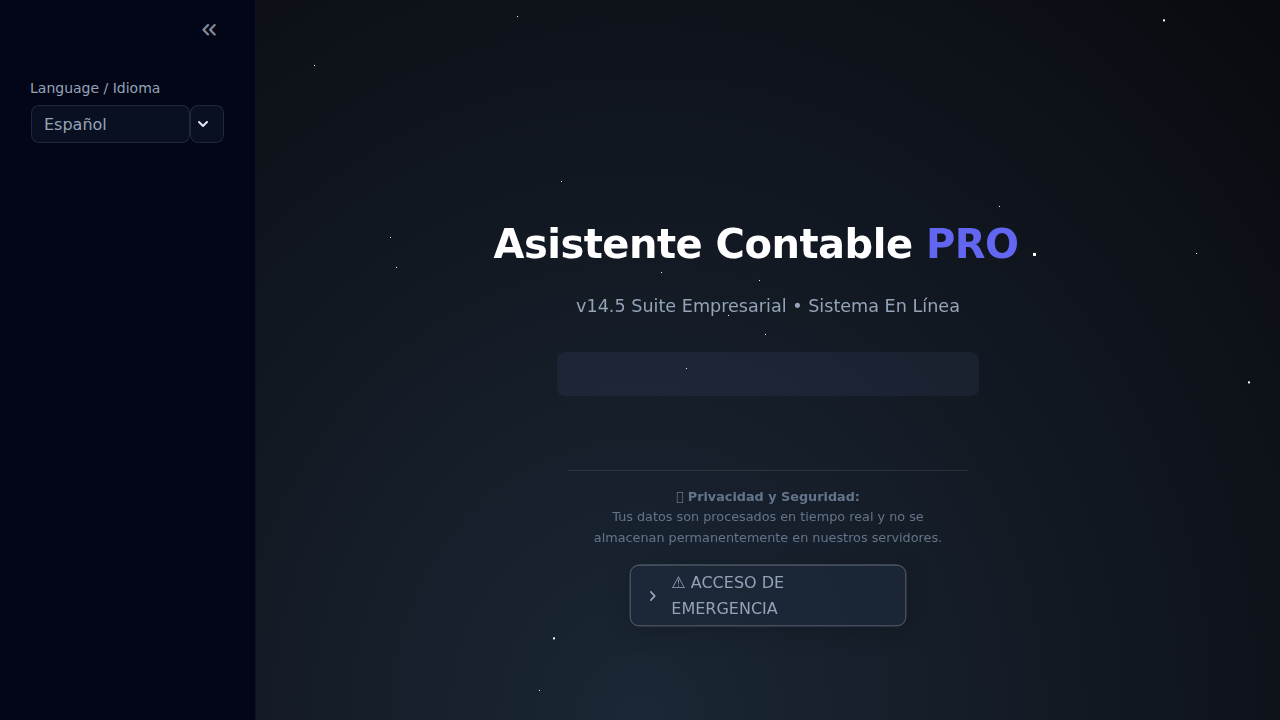
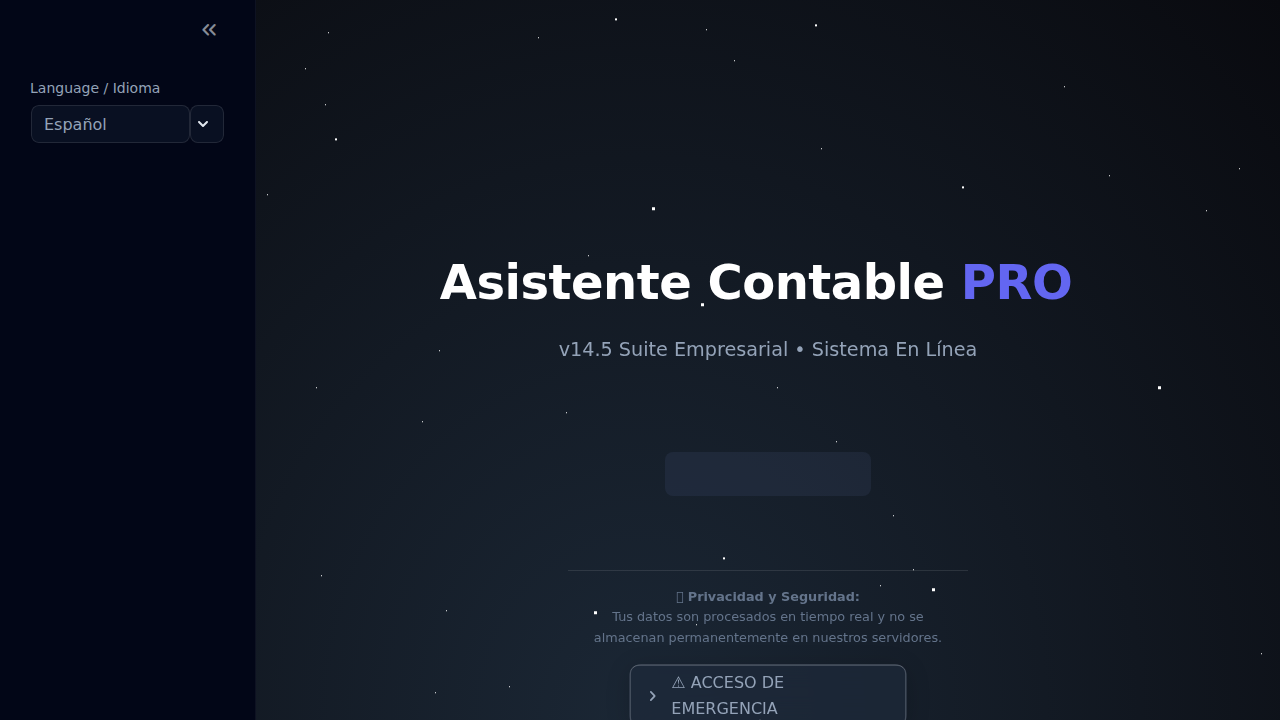
Fix login UI localization and sidebar visibility
- Localized login page title and subtitle to Spanish ("Asistente Contable PRO").
- Moved language selector to global sidebar scope to ensure visibility before login.
- Injected CSS to fix sidebar toggle button z-index and visibility over custom background.
- Centered login button using `st.columns([3, 2, 3])` and flexbox.
- Verified changes with Playwright script `verification/verify_ui_sidebar.py`.

diff --git a/app.py b/app.py
@@ -36,14 +36,22 @@ st.markdown("""
         [data-testid="stSidebarCollapsedControl"] {
             z-index: 999999 !important;
             color: #FFFFFF !important;
-            background-color: rgba(99, 102, 241, 0.4) !important;
+            background-color: rgba(99, 102, 241, 0.6) !important;
             border-radius: 50%;
-            padding: 4px;
+            padding: 6px;
             display: block !important;
+            position: fixed !important;
+            left: 20px !important;
+            top: 20px !important;
         }
 
         [data-testid="stSidebarNav"] {
             z-index: 999999 !important;
+        }
+
+        [data-testid="stSidebar"] {
+            z-index: 999998 !important;
+            background-color: #020617 !important;
         }
 
         /* --- FONTS --- */
@@ -602,10 +610,23 @@ def login_section():
     auth_url = None
 
     # --- UI RENDER (Header + Background) ---
+    # Centering container with flexbox for vertical and horizontal alignment
     st.markdown(f"""
-<div style="display: flex; flex-direction: column; align-items: center; justify-content: center; min-height: 20vh; position: relative; z-index: 10; padding-top: 10vh;">
-    <h1 style="font-family: 'Inter', sans-serif; font-size: 2.5rem; font-weight: 800; margin-bottom: 0.5rem; text-align: center; letter-spacing: -1px;">{get_text('login_title')}</h1>
-    <p style="color: var(--text-body); margin-bottom: 2rem; font-family: 'Inter', sans-serif; font-size: 1.1rem;">{get_text('login_subtitle')}</p>
+<div style="
+    display: flex;
+    flex-direction: column;
+    align-items: center;
+    justify-content: center;
+    height: 40vh;
+    width: 100%;
+    margin-top: 5vh;
+    position: relative;
+    z-index: 10;
+">
+    <div style="text-align: center;">
+        <h1 style="font-family: 'Inter', sans-serif; font-size: 3rem; font-weight: 800; margin-bottom: 0.5rem; letter-spacing: -1px;">{get_text('login_title')}</h1>
+        <p style="color: var(--text-body); font-family: 'Inter', sans-serif; font-size: 1.2rem; font-weight: 500;">{get_text('login_subtitle')}</p>
+    </div>
 </div>
 """, unsafe_allow_html=True)
 
@@ -621,8 +642,8 @@ def login_section():
                 revoke_token_endpoint="https://oauth2.googleapis.com/revoke",
             )
 
-            # Center the button using columns
-            c_left, c_center, c_right = st.columns([1, 2, 1])
+            # Use strict columns for centering the button
+            c_left, c_center, c_right = st.columns([3, 2, 3])
             with c_center:
                 result = oauth2.authorize_button(
                     name=get_text('login_btn_google'),
